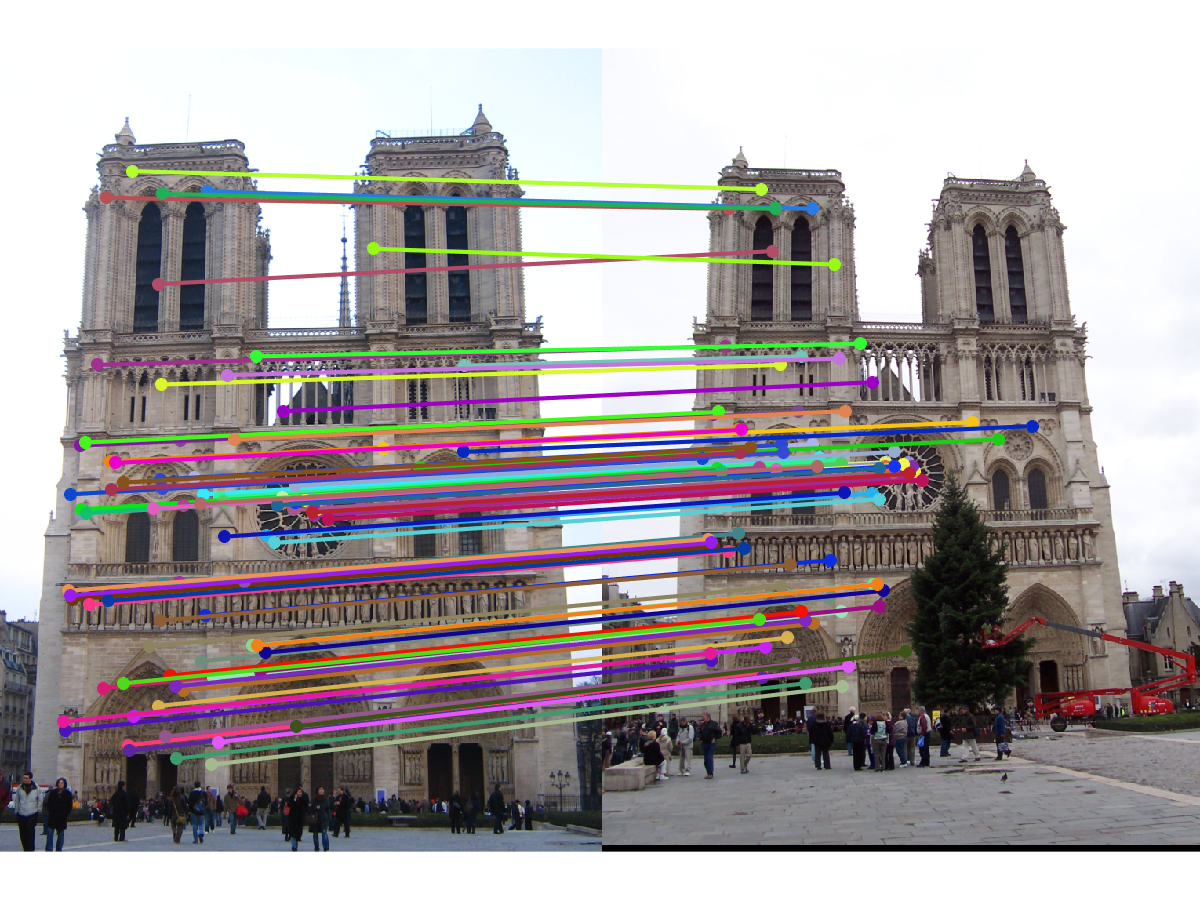
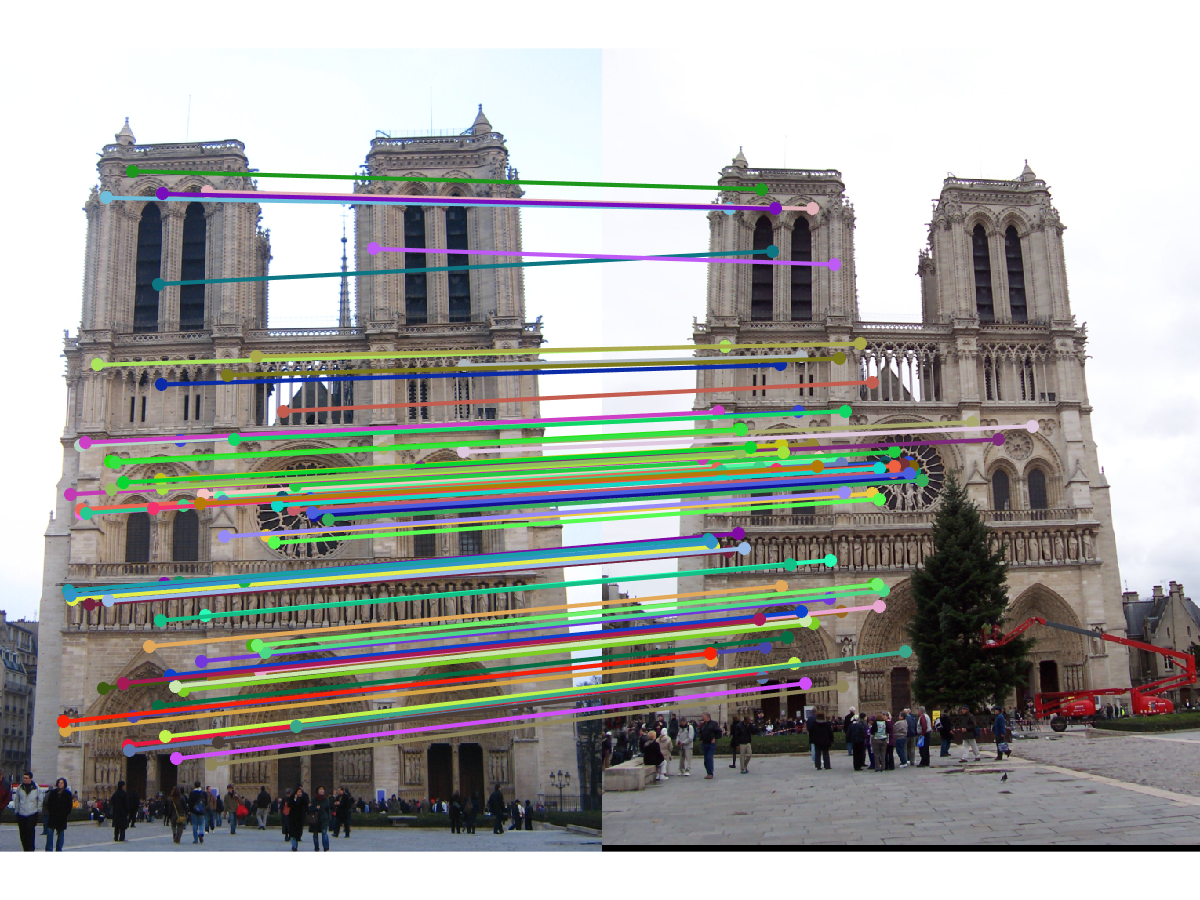
Added example images and writeup

Changed region(s): [[0.0308, 0.3733, 0.8633, 0.8711], [0.0925, 0.1867, 0.7092, 0.3111], [0.1233, 0.3111, 0.185, 0.3422]]

diff --git a/html/index.html b/html/index.html
@@ -1,6 +1,6 @@
 <html>
 <head>
-<title>Computer Vision Assignment 02 - Local Feature Matching</title>
+<title>Computer Vision Assignment 01 - Hybrid Images</title>
 
 <link href='http://fonts.googleapis.com/css?family=Nunito:300|Crimson+Text|Droid+Sans+Mono' rel='stylesheet' type='text/css'>
 
@@ -18,70 +18,61 @@
 <body>
 <div id="header" >
 <div id="headersub">
-<h1>Your Name</h1>
+<h1>Bradley Rosenfeld</h1>
 </div>
 </div>
 <div class="container">
 
-<h2>COS 351 Assignment 02 - Local Feature Matching</h2>
+<h2>COS 351 Assignment 02 - Feature Detection</h2>
 
-<div style="float: right; padding: 20px">
-<img src="placeholder.jpg" />
-<p style="font-size: 14px">Example of a right floating element.</p>
+<div style="float: right; padding: 20px; width: 45%;">
+<img src="images/house/vis_dots.png" style="max-width: 100%;">
+<p style="font-size: 14px">Example of features detected on a house.</p>
 </div>
 
-<p>Lorem ipsum dolor sit amet, consectetur adipisicing elit, sed do eiusmod tempor incididunt ut labore et dolore magna aliqua. Ut enim ad minim veniam, quis nostrud exercitation ullamco laboris nisi ut aliquip ex ea commodo consequat. Duis aute irure dolor in reprehenderit in voluptate velit esse cillum dolore eu fugiat nulla pariatur. Excepteur sint occaecat cupidatat non proident, sunt in culpa qui officia deserunt mollit anim id est laborum.</p>
+<p>For this project I was given the task of developing the three parts of a feature detection pipeline: finding interest points (edges), figuring out what features are important, and then matching those features to features found in an image of the same object. I found this project challenge because of my general lack of knowledge of the features available in Matlab. But once I discovered the debugging tools, work progressed much faster.</p>
 
-<ol>
-<li>list element 1.</li>
-<li>list element 2.</li>
-<li>etc.</li>
-</ol>
+<div style="clear:both"></div>
 
-<p>Lorem ipsum dolor sit amet, consectetur adipisicing elit, sed do eiusmod tempor incididunt ut labore et dolore magna aliqua. Ut enim ad minim veniam, quis nostrud exercitation ullamco laboris nisi ut aliquip ex ea commodo consequat. Duis aute irure dolor in reprehenderit in voluptate velit esse cillum dolore eu fugiat nulla pariatur. Excepteur sint occaecat cupidatat non proident, sunt in culpa qui officia deserunt mollit anim id est laborum.</p>
+<h3>The algorithm</h3>
 
-<div style="clear:both">
-<h3>Example heading</h3>
+<p>Implementing the harris corner detector turned out to be the easiest part of the assignment. Once I discovered the imgradient function I was able to calculate Ix and Iy correctly. My algorithm was picking up points on the edges of the images, so I added some simple suppression of all the edges out to the feature_width mark. This suppression is simple in the sense that it simply ignores anything close to the edge of the image (by setting it to 0). Finding maximum values in the neighborhood turned out to be fairly simple with the use of the colfilt function which allowed me to automatically find the maximum value in a sliding 5x5 array.</p>
 
-<p>Lorem ipsum dolor sit amet, consectetur adipisicing elit, sed do eiusmod tempor incididunt ut labore et dolore magna aliqua. Ut enim ad minim veniam, quis nostrud exercitation ullamco laboris nisi ut aliquip ex ea commodo consequat. Duis aute irure dolor in reprehenderit in voluptate velit esse cillum dolore eu fugiat nulla pariatur. Excepteur sint occaecat cupidatat non proident, sunt in culpa qui officia deserunt mollit anim id est laborum.</p>
+<p>Getting the features was extremely difficult. I had trouble figuring out how the SIFT algorithm was supposed to work. Once I figured out how to properly calculate the gradient angles, I was able to get something reasonablly close. I did end up implementing the normalize, clamp, renormalize pattern just to see how it would affect my results.</p>
 
-<h2>Example of code with highlighting</h2>
-The javascript in the <code>highlighting</code> folder is configured to do syntax highlighting in code blocks such as the one below.<p>
+<p>Matching features was easy once I figured out how to calculate the distances properly. The <a href="http://www.mathworks.com/help/matlab/ref/repmat.html">repmat</a> function was very helpful for this part of the problem.
 
-<pre><code>
-%example code
-for i = 1:length(offset)
-    source = imread(sprintf('%s/source_%02d.jpg',data_dir,i));
-    mask   = imread(sprintf('%s/mask_%02d.jpg',data_dir,i));
-    target = imread(sprintf('%s/target_%02d.jpg',data_dir,i));
+<h3>Results</h3>
 
-</code></pre>
+<p>I ended up using a lot of loops (especially in get_features.m). This seems to result in a very slow algorithm. Even when working with the example data set (where I only found around 100 features) it took several minutes to calculate.</p>
 
-<h3>Results in a table</h3>
+<p>Overall my algorithm seems to perform fairly well. It has an ok good matches to bad matches ratio. However, it completely failed on the difficult example data (most likely because of the large difference in contrast and color between the two images). I'd be interested to see how I could tune my algorithm to fix that.</p>
 
 <table border=1>
 <tr>
-<td>
-<img src="placeholder.jpg" width="24%"/>
-<img src="placeholder.jpg" width="24%"/>
-<img src="placeholder.jpg" width="24%"/>
-<img src="placeholder.jpg" width="24%"/>
-</td>
+	<td>
+		<img src="images/notre-dame/vis_dots.png" style="width:33%"><img src="images/notre-dame/vis_arrows.png" style="width:33%"><img src="images/notre-dame/eval.png" style="width:33%">
+		<p>79 Good Matches. 7 Bad Matches</p>
+	</td>
 </tr>
-
 <tr>
-<td>
-<img src="placeholder.jpg" width="24%"/>
-<img src="placeholder.jpg" width="24%"/>
-<img src="placeholder.jpg" width="24%"/>
-<img src="placeholder.jpg" width="24%"/>
-</td>
+	<td>
+		<img src="images/mount-rushmore/vis_dots.png" style="width:33%"><img src="images/mount-rushmore/vis_arrows.png" style="width:33%"><img src="images/mount-rushmore/eval.png" style="width:33%">
+		<p>153 Good Matches. 10 Bad Matches</p>
+	</td>
 </tr>
-
+<tr>
+	<td>
+		<img src="images/episcopal-gaudi/eval.png" style="width:33%; display: block; margin:auto;">
+		<p>Fail!</p>
+	</td>
+</tr>
+<tr>
+	<td>
+		<img src="images/house/vis_dots.png" style="width:50%;"><img src="images/house/vis_arrows.png" style="width:50%;">
+		<p>Looking good</p>
+	</td>
+</tr>
 </table>
-
-<div style="clear:both" >
-<p>Lorem ipsum dolor sit amet, consectetur adipisicing elit, sed do eiusmod tempor incididunt ut labore et dolore magna aliqua. Ut enim ad minim veniam, quis nostrud exercitation ullamco laboris nisi ut aliquip ex ea commodo consequat. Duis aute irure dolor in reprehenderit in voluptate velit esse cillum dolore eu fugiat nulla pariatur. Excepteur sint occaecat cupidatat non proident, sunt in culpa qui officia deserunt mollit anim id est laborum.</p>
-</div>
 </body>
 </html>

diff --git a/code/assign02.m b/code/assign02.m
@@ -28,14 +28,18 @@ image2 = imread('../data/Notre Dame/4191453057_c86028ce1f_o.jpg');
 eval_file = '../data/Notre Dame/921919841_a30df938f2_o_to_4191453057_c86028ce1f_o.mat';
 
 %This pair is relatively easy
-% image1 = imread('../data/Mount Rushmore/9021235130_7c2acd9554_o.jpg');
-% image2 = imread('../data/Mount Rushmore/9318872612_a255c874fb_o.jpg');
-% eval_file = '../data/Mount Rushmore/9021235130_7c2acd9554_o_to_9318872612_a255c874fb_o.mat';
+%image1 = imread('../data/Mount Rushmore/9021235130_7c2acd9554_o.jpg');
+%image2 = imread('../data/Mount Rushmore/9318872612_a255c874fb_o.jpg');
+%eval_file = '../data/Mount Rushmore/9021235130_7c2acd9554_o_to_9318872612_a255c874fb_o.mat';
 
 %This pair is relatively difficult
-% image1 = imread('../data/Episcopal Gaudi/4386465943_8cf9776378_o.jpg');
-% image2 = imread('../data/Episcopal Gaudi/3743214471_1b5bbfda98_o.jpg');
-% eval_file = '../data/Episcopal Gaudi/4386465943_8cf9776378_o_to_3743214471_1b5bbfda98_o.mat';
+%image1 = imread('../data/Episcopal Gaudi/4386465943_8cf9776378_o.jpg');
+%image2 = imread('../data/Episcopal Gaudi/3743214471_1b5bbfda98_o.jpg');
+%eval_file = '../data/Episcopal Gaudi/4386465943_8cf9776378_o_to_3743214471_1b5bbfda98_o.mat';
+
+% Other test pair
+%image1 = imread('../data/House/IMG_0485.jpg');
+%image2 = imread('../data/House/IMG_0488.jpg');
 
 image1 = single(image1)/255;
 image2 = single(image2)/255;
